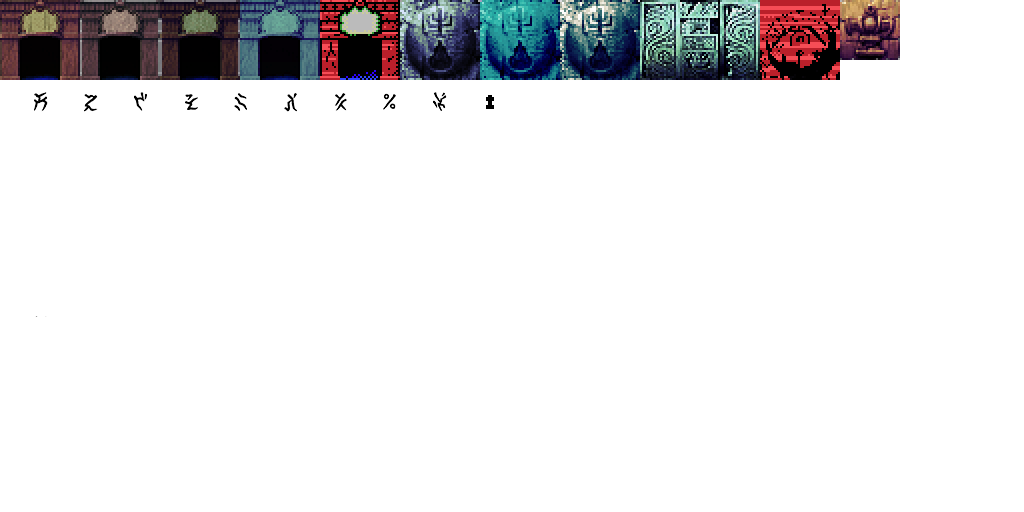
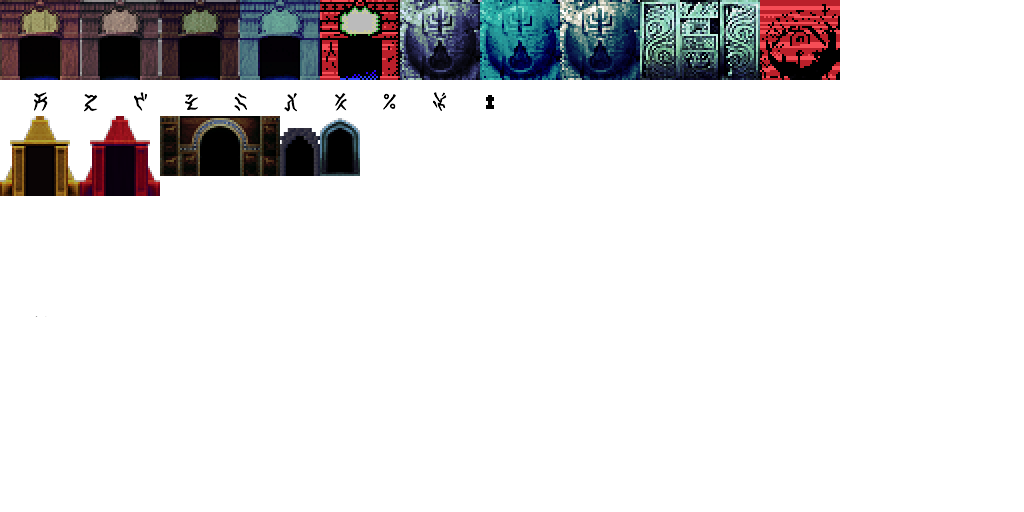
Added sun, spring, extinction, moonlight to random starting locations

Changed region(s): [[0.0, 0.2188, 0.375, 0.4062], [0.8125, 0.0, 0.9062, 0.125]]

diff --git a/src/main/java/lmr/randomizer/update/AddStartingShop.java b/src/main/java/lmr/randomizer/update/AddStartingShop.java
@@ -20,8 +20,17 @@ public final class AddStartingShop {
         else if(zoneIndex == 2) {
             conversationDoor = addMausoleumShop(startingScreen, startingShopBlockIndex);
         }
+        else if(zoneIndex == 3) {
+            conversationDoor = addSunShop(startingScreen, startingShopBlockIndex);
+        }
+        else if(zoneIndex == 4) {
+            conversationDoor = addSpringShop(startingScreen, startingShopBlockIndex);
+        }
         else if(zoneIndex == 5) {
             conversationDoor = addInfernoShop(startingScreen, startingShopBlockIndex);
+        }
+        else if(zoneIndex == 6) {
+            conversationDoor = addExtinctionShop(startingScreen, startingShopBlockIndex);
         }
         else if(zoneIndex == 7) {
             if(Settings.getCurrentStartingLocation() == -7) {
@@ -39,6 +48,9 @@ public final class AddStartingShop {
         }
         else if(zoneIndex == 11) {
             conversationDoor = addGraveyardShop(startingScreen, startingShopBlockIndex);
+        }
+        else if(zoneIndex == 12) {
+            conversationDoor = addMoonlightShop(startingScreen, startingShopBlockIndex);
         }
         else if(zoneIndex == 13) {
             conversationDoor = addGoddessShop(startingScreen, startingShopBlockIndex);
@@ -109,6 +121,50 @@ public final class AddStartingShop {
         return shop;
     }
 
+    public static ConversationDoor addSunShop(Screen screen, short shopBlockIndex) {
+        GraphicsTextureDraw graphic = new GraphicsTextureDraw(screen, 1020, 200);
+
+        graphic.setLayer(0);
+        graphic.setImageFile("01effect.png");
+        graphic.setImagePosition(0, 628);
+        graphic.setImageSize(80, 80);
+        graphic.setAnimation(0, 0, 1, 0);
+        graphic.setCollision(HitTile.Air);
+        graphic.setRGBAMax(0, 0, 0, 255);
+        graphic.setArg23(1);
+
+        screen.getObjects().add(graphic);
+
+        ConversationDoor shop = new ConversationDoor(screen, 1040, 240);
+        shop.setShopDefaults();
+        shop.setBlockNumber(shopBlockIndex);
+
+        screen.getObjects().add(shop);
+        return shop;
+    }
+
+    public static ConversationDoor addSpringShop(Screen screen, short shopBlockIndex) {
+        GraphicsTextureDraw graphic = new GraphicsTextureDraw(screen, 60, 140);
+
+        graphic.setLayer(0);
+        graphic.setImageFile("01effect.png");
+        graphic.setImagePosition(280, 628);
+        graphic.setImageSize(40, 60);
+        graphic.setAnimation(0, 0, 1, 0);
+        graphic.setCollision(HitTile.Air);
+        graphic.setRGBAMax(0, 0, 0, 255);
+        graphic.setArg23(1);
+
+        screen.getObjects().add(graphic);
+
+        ConversationDoor shop = new ConversationDoor(screen, 60, 160);
+        shop.setShopDefaults();
+        shop.setBlockNumber(shopBlockIndex);
+
+        screen.getObjects().add(shop);
+        return shop;
+    }
+
     public static ConversationDoor addInfernoShop(Screen screen, short shopBlockIndex) {
         GraphicsTextureDraw graphic = new GraphicsTextureDraw(screen, 220, 60);
 
@@ -126,6 +182,28 @@ public final class AddStartingShop {
         screen.getObjects().add(graphic);
 
         ConversationDoor shop = new ConversationDoor(screen, 240, 80);
+        shop.setShopDefaults();
+        shop.setBlockNumber(shopBlockIndex);
+
+        screen.getObjects().add(shop);
+        return shop;
+    }
+
+    public static ConversationDoor addExtinctionShop(Screen screen, short shopBlockIndex) {
+        GraphicsTextureDraw graphic = new GraphicsTextureDraw(screen, 40, 700);
+
+        graphic.setLayer(0);
+        graphic.setImageFile("01effect.png");
+        graphic.setImagePosition(320, 628);
+        graphic.setImageSize(40, 60);
+        graphic.setAnimation(0, 0, 1, 0);
+        graphic.setCollision(HitTile.Air);
+        graphic.setRGBAMax(0, 0, 0, 255);
+        graphic.setArg23(1);
+
+        screen.getObjects().add(graphic);
+
+        ConversationDoor shop = new ConversationDoor(screen, 40, 720);
         shop.setShopDefaults();
         shop.setBlockNumber(shopBlockIndex);
 
@@ -246,6 +324,28 @@ public final class AddStartingShop {
         screen.getObjects().add(graphic);
 
         ConversationDoor shop = new ConversationDoor(screen, 880, 160);
+        shop.setShopDefaults();
+        shop.setBlockNumber(shopBlockIndex);
+
+        screen.getObjects().add(shop);
+        return shop;
+    }
+
+    public static ConversationDoor addMoonlightShop(Screen screen, short shopBlockIndex) {
+        GraphicsTextureDraw graphic = new GraphicsTextureDraw(screen, 280, 520);
+
+        graphic.setLayer(0);
+        graphic.setImageFile("01effect.png");
+        graphic.setImagePosition(80, 628);
+        graphic.setImageSize(80, 80);
+        graphic.setAnimation(0, 0, 1, 0);
+        graphic.setCollision(HitTile.Air);
+        graphic.setRGBAMax(0, 0, 0, 255);
+        graphic.setArg23(1);
+
+        screen.getObjects().add(graphic);
+
+        ConversationDoor shop = new ConversationDoor(screen, 300, 560);
         shop.setShopDefaults();
         shop.setBlockNumber(shopBlockIndex);
 

diff --git a/src/main/java/lmr/randomizer/util/LocationCoordinateMapper.java b/src/main/java/lmr/randomizer/util/LocationCoordinateMapper.java
@@ -632,8 +632,17 @@ public final class LocationCoordinateMapper {
         if("Mausoleum of the Giants".equals(name) || "Mausoleum".equals(name)) {
             return 2;
         }
+        if("Temple of the Sun".equals(name) || "Sun".equals(name)) {
+            return 3;
+        }
+        if("Spring in the Sky".equals(name) || "Spring".equals(name)) {
+            return 4;
+        }
         if("Inferno Cavern".equals(name) || "Inferno".equals(name)) {
             return 5;
+        }
+        if("Chamber of Extinction".equals(name) || "Extinction".equals(name)) {
+            return 6;
         }
         if(name.contains("Twin ")) {
             if(name.toLowerCase().contains("back")) {
@@ -647,11 +656,17 @@ public final class LocationCoordinateMapper {
         if("Endless Corridor".equals(name) || "Endless".equals(name)) {
             return 8;
         }
+//        if("Shrine of the Mother".equals(name) || "Shrine".equals(name)) {
+//            return 8;
+//        }
         if("Gate of Illusion".equals(name) || "Illusion".equals(name)) {
             return 10;
         }
         if("Graveyard of the Giants".equals(name) || "Graveyard".equals(name)) {
             return 11;
+        }
+        if("Temple of Moonlight".equals(name) || "Moonlight".equals(name)) {
+            return 12;
         }
         if("Tower of the Goddess".equals(name) || "Goddess".equals(name)) {
             return 13;
@@ -661,6 +676,9 @@ public final class LocationCoordinateMapper {
         }
         if("Chamber of Birth".equals(name) || "Birth".equals(name)) {
             return 16;
+        }
+        if("Dimensional Corridor".equals(name) || "Dimensional".equals(name)) {
+            return 17;
         }
         if("Gate of Time (Surface)".equals(name) || "Gate of Time Surface".equals(name) || "Surface of Time".equals(name) || "Retro Surface".equals(name) || "Retrosurface".equals(name)) {
             return 21;
@@ -749,11 +767,17 @@ public final class LocationCoordinateMapper {
         if(zone == 2) {
             return "Location: Mausoleum of the Giants";
         }
+        if(zone == 3) {
+            return "Location: Temple of the Sun [Main]";
+        }
         if(zone == 4) {
             return "Location: Spring in the Sky [Main]";
         }
         if(zone == 5) {
             return "Location: Inferno Cavern [Main]";
+        }
+        if(zone == 6) {
+            return "Location: Chamber of Extinction [Main]";
         }
         if(zone == 7) {
             return "Location: Twin Labyrinths [Poison 1]";
@@ -769,6 +793,9 @@ public final class LocationCoordinateMapper {
         }
         if(zone == 11) {
             return "Location: Graveyard of the Giants [Grail]";
+        }
+        if(zone == 12) {
+            return "Location: Temple of Moonlight [Grail]";
         }
         if(zone == 13) {
             return "Location: Tower of the Goddess [Grail]";

diff --git a/src/main/java/lmr/randomizer/Main.java b/src/main/java/lmr/randomizer/Main.java
@@ -22,6 +22,7 @@ import lmr.randomizer.update.AddObject;
 import lmr.randomizer.util.LocationCoordinateMapper;
 import lmr.randomizer.util.FlagConstants;
 import lmr.randomizer.util.FlagManager;
+import lmr.randomizer.util.ZoneConstants;
 import net.miginfocom.swing.MigLayout;
 
 import javax.swing.*;
@@ -1178,13 +1179,14 @@ public class Main {
             }
             saveData[0x069 * 2 + 0x1011 + 1] = (byte)10; // Start with 10 weights
 
-            if(Settings.getCurrentStartingLocation() == 7) {
-                // Twin labs front, auto-solve the elevator puzzle
-                saveData[0x11 + 0x1db] = (byte)2;
+            if(Settings.getCurrentStartingLocation() == ZoneConstants.EXTINCTION) {
+                saveData[0x11 + FlagConstants.EXTINCTION_TEMP_LIGHT] = (byte)1; // A bit of light to start things off
             }
-//            if(Settings.getCurrentStartingLocation() == 13) {
-//                // Tower of the Goddess, turn on the lights.
-//                saveData[0x11 + 0x271] = 3;
+            if(Settings.getCurrentStartingLocation() == ZoneConstants.TWIN_FRONT) {
+                saveData[0x11 + FlagConstants.TWINS_FRONT_GRAIL_ELEVATOR] = (byte)2; // Auto-solve elevator puzzle
+            }
+//            if(Settings.getCurrentStartingLocation() == ZoneConstants.GODDESS) {
+//                saveData[0x11 + FlagConstants.GODDESS_LIGHTS_ON] = 3;
 //            }
         }
         if(HolidaySettings.isHalloweenMode()) {
@@ -1377,6 +1379,12 @@ public class Main {
         if(Settings.isAllowSubweaponStart()) {
             startingWeapons.addAll(ItemRandomizer.ALL_SUBWEAPONS);
         }
+        if(Settings.getCurrentStartingLocation() == ZoneConstants.SUN) {
+            startingWeapons.remove("Earth Spear");
+        }
+        if(Settings.getCurrentStartingLocation() == ZoneConstants.MOONLIGHT) {
+            startingWeapons.remove("Flare Gun");
+        }
 
         startingWeapons.removeAll(customPlacementData.getRemovedItems());
         startingWeapons.removeAll(customPlacementData.getStartingItems());
@@ -1407,6 +1415,7 @@ public class Main {
         }
         if(!Settings.isRandomizeTransitionGates()) {
             // Most backside fields aren't an option unless random transitions help keep you from getting stuck on one side of the ruins.
+            possibleStartingLocations.remove((Integer)6); // All the vanilla transitions in Extinction are blocked off from the Extinction side.
             possibleStartingLocations.remove((Integer)11);
             possibleStartingLocations.remove((Integer)13);
             possibleStartingLocations.remove((Integer)14);

diff --git a/src/main/java/lmr/randomizer/util/FlagConstants.java b/src/main/java/lmr/randomizer/util/FlagConstants.java
@@ -37,7 +37,8 @@ public final class FlagConstants {
     public static final int EXTINCTION_PALENQUE_SCREEN_MURAL = 0x1ca; // Value 0 > 1 after placing the weight in the Extinction <> Birth teleport area, 2 and 3 for animation of mural falling
     public static final int EXTINCTION_TEMP_LIGHT = 0x1cd; // Value 0 > 1 when lighting Extinction via Flare Gun
     public static final int EXTINCTION_TRAP_FAKE_ANKH = 0x1cf; // Triggers crushers via Lemeza detector on approaching the fake ankh
-    public static final int TWINS_POISON = 0x1d7; // Value 0 > 1 when entering the poison room (counting down), 1 > 2 activates the poison after time runs out
+    public static final int TWINS_POISON = 0x1d7; // 2 = elevator moving
+    public static final int TWINS_FRONT_GRAIL_ELEVATOR = 0x1db; // Value 0 > 1 when pressing first dais to release the twins, 1 > 2 when pressing second dais
     public static final int TWINS_RELEASED = 0x1dc; // Value 0 > 1 when pressing first dais to release the twins, 1 > 2 when pressing second dais
     public static final short TWIN_UNSOLVABLE_PUZZLE = 0x1e4; // Value 0 > 1 when solving the block pushing puzzle in Twin Labyrinths on the screen with the lamp recharge station/Lamp of Time Shop
     public static final int LITTLE_BROTHER_PURCHASES = 0x1ea; // Value += 1 for each purchase made from little brother
@@ -61,6 +62,7 @@ public final class FlagConstants {
     public static final int MOONLIGHT_3_WOMEN_FACES = 0x262; // Set to 1 after hitting the face in Moon-gazing pit with a subweapon.
     public static final int RUIN_LADDER_NUWA_V2 = 0x265; // Don't remember how/why this is different from 0x369
     public static final int MOONLIGHT_SCAN_DANCING_MAN = 0x270; // Set to 1 after scanning the Dancing Man
+    public static final int GODDESS_LIGHTS_ON = 0x271; // 3 = lights on
     public static final int GODDESS_STATUE_RUIN = 0x278; // Value 0 > 1 to remove the Goddess statue blocking entry to Tower of Ruin
     public static final int GODDESS_PUZZLE_FLAIL_WHIP = 0x27b; // Value 0 > 1 when reading the tablet, 1 > 2 when solved, 2 > 3 when weapon cover is gone
     public static final int GODDESS_STATUE_SHIELD_ANIMATION = 0x284; // Goes to 2 when activated; 2 > 3 when gone

diff --git a/src/main/java/lmr/randomizer/DataFromFile.java b/src/main/java/lmr/randomizer/DataFromFile.java
@@ -41,7 +41,7 @@ public final class DataFromFile {
             16, 17, 18, 19, 20, 21, 22, 23, 24, 25, 26, 27, 28, 29, 30, 31, 32, 33, 34, 36, 37, 38, 39, 40, 41, 42, 43,
             44, 45, 46, 47, 48, 49, 50, 51, 52, 53, 54, 55, 56, 57, 58, 59, 60, 61, 62, 63, 64, 65, 66, 67, 68, 69, 70,
             71, 72, 73, 75, 76, 85, 86, 87, 88, 89, 90, 91, 92, 93, 94, 95, 96, 97, 98, 99, 100, 101, 102, 103, 104);
-    public static List<Integer> STARTING_LOCATIONS = Arrays.asList(0, 1, 2, 5, 7, -7, 8, 10, 11, 13, 16, 21);
+    public static List<Integer> STARTING_LOCATIONS = Arrays.asList(0, 1, 2, 3, 4, 5, 6, 7, -7, 8, 10, 11, 12, 13, 16, 21);
     public static List<String> NPC_LOCATIONS = Arrays.asList("Location: Surface [Main]", "Location: Gate of Guidance [Main]",
             "Location: Mausoleum of the Giants", "Location: Temple of the Sun [Sphinx]", "Location: Spring in the Sky [Main]",
             "Location: Inferno Cavern [Main]", "Location: Chamber of Extinction [Main]", "Location: Chamber of Extinction [Ankh Lower]",

diff --git a/src/main/java/lmr/randomizer/Settings.java b/src/main/java/lmr/randomizer/Settings.java
@@ -2,6 +2,7 @@ package lmr.randomizer;
 
 import lmr.randomizer.randomization.ShopRandomizationEnum;
 import lmr.randomizer.util.LocationCoordinateMapper;
+import lmr.randomizer.util.ZoneConstants;
 
 import javax.swing.*;
 import java.io.File;
@@ -679,6 +680,10 @@ public final class Settings {
     public static Set<String> getStartingItemsIncludingCustom() {
         Set<String> startingItems = new HashSet<>(singleton.startingItems);
         startingItems.addAll(DataFromFile.getCustomPlacementData().getStartingItems());
+        if(isRequireFlaresForExtinction()
+                && LocationCoordinateMapper.getStartingZone() == ZoneConstants.EXTINCTION) {
+            startingItems.add("Flare Gun");
+        }
         if(Settings.getCurrentStartingLocation() == 7) {
             startingItems.add("Twin Statue");
         }

diff --git a/src/main/java/lmr/randomizer/rcd/object/GraphicsTextureDraw.java b/src/main/java/lmr/randomizer/rcd/object/GraphicsTextureDraw.java
@@ -107,12 +107,22 @@ public class GraphicsTextureDraw extends GameObject {
         getArgs().set(3, (short)imageY);
     }
 
+    public void setImagePosition(int x, int y) {
+        setImageX(x);
+        setImageY(y);
+    }
+
     public void setImageWidth(int imageWidthPixels) {
         getArgs().set(4, (short)imageWidthPixels);
     }
 
     public void setImageHeight(int imageHeightPixels) {
         getArgs().set(5, (short)imageHeightPixels);
+    }
+
+    public void setImageSize(int imageWidthPixels, int imageHeightPixels) {
+        setImageWidth(imageWidthPixels);
+        setImageHeight(imageHeightPixels);
     }
 
     public void setAnimationMode(int animationMode) {

diff --git a/src/main/java/lmr/randomizer/Validation.java b/src/main/java/lmr/randomizer/Validation.java
@@ -85,7 +85,8 @@ public class Validation {
                 return false;
             }
             if(!Settings.isRandomizeTransitionGates()) {
-                if(customPlacementData.getStartingLocation() == 11
+                if(customPlacementData.getStartingLocation() == 6
+                        || customPlacementData.getStartingLocation() == 11
                         || customPlacementData.getStartingLocation() == 14
                         || customPlacementData.getStartingLocation() == 16
                         || customPlacementData.getStartingLocation() == 21) {

diff --git a/src/main/java/lmr/randomizer/FileUtils.java b/src/main/java/lmr/randomizer/FileUtils.java
@@ -21,10 +21,10 @@ import java.util.zip.ZipInputStream;
  * Created by thezerothcat on 7/10/2017.
  */
 public class FileUtils {
-    public static final String VERSION = "2.27.0";
+    public static final String VERSION = "2.28.0";
     public static final int EXISTING_FILE_WIDTH = 1024;
     public static final int EXISTING_FILE_HEIGHT = 512;
-    public static final int GRAPHICS_VERSION = 4;
+    public static final int GRAPHICS_VERSION = 5;
 
     private static BufferedWriter logWriter;
     private static final List<String> KNOWN_RCD_FILE_HASHES = new ArrayList<>();
